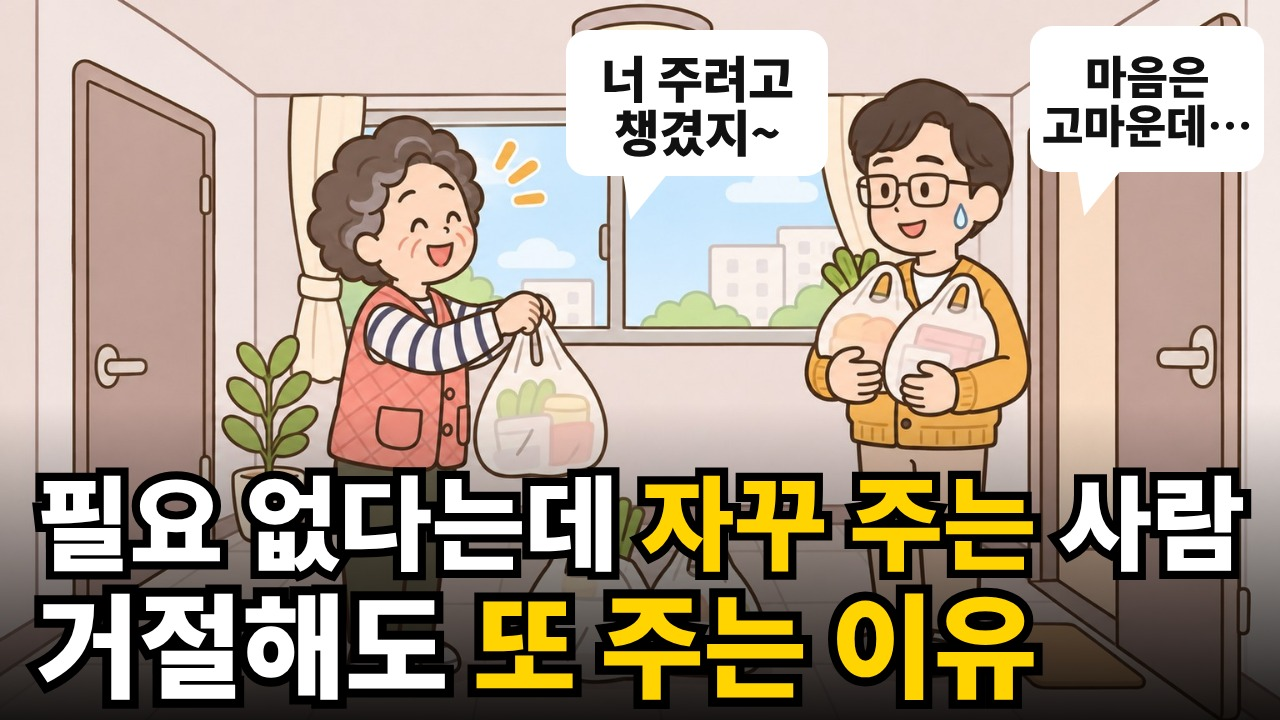
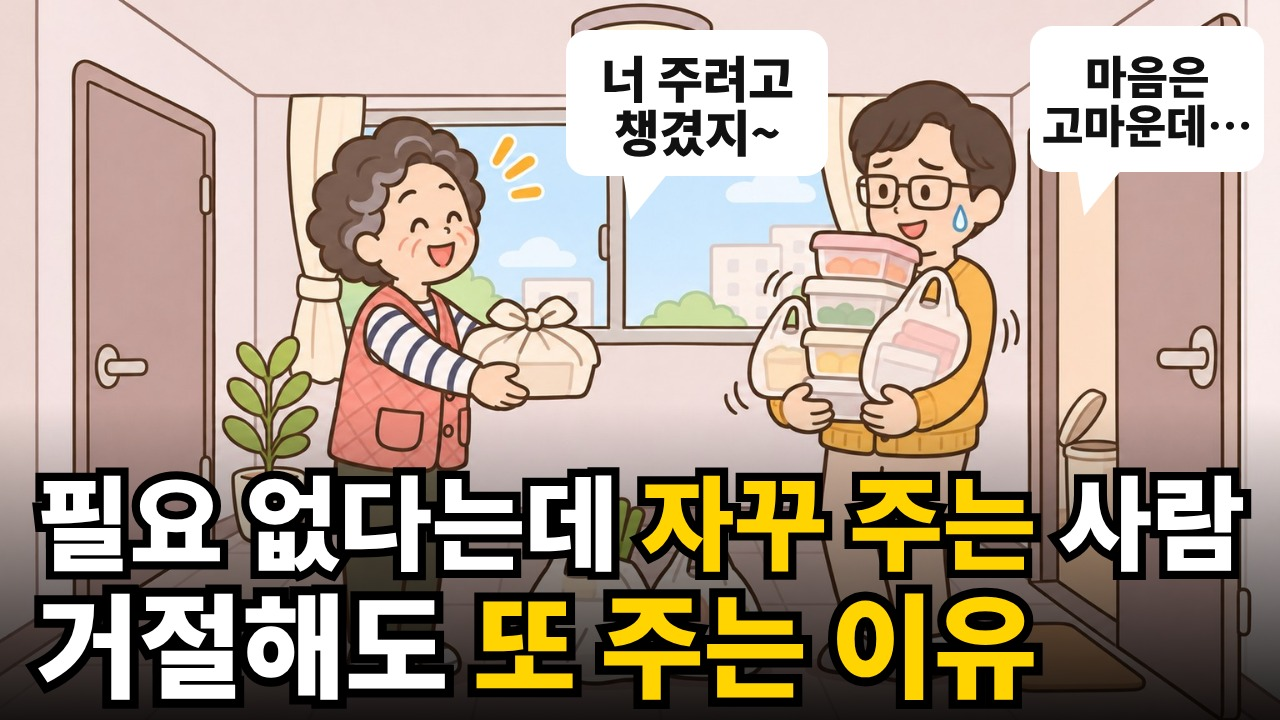
jakku 썸네일 3안 = 새 그림 TH-CHAR2 (가장 자극적인 장면 — 반찬통 탑 · 하나 더) · thumbs_build v1.11 img 칸
Claude-Session: https://claude.ai/code/session_01PYG2MqrRa1FwGcWhbgqN1W

diff --git a/psychology/source/thumbs_build.py b/psychology/source/thumbs_build.py
@@ -1,6 +1,7 @@
 #!/usr/bin/env python3
 # -*- coding: utf-8 -*-
-# VERSION: v1.10 — 2026-11-26 — jakku 둘째 줄 '심리학적 이유 3가지' → '거절해도 또 주는 이유' (영상 제작 공통 규칙 3번 — 제목과 이어지는 시청자 장면 · 답 숨김 · package.json thumb_main 과 맞춤 · '숨겨진' 은 페르소나 title 4·5회차가 탓하는 말로 읽음)
+# VERSION: v1.11 — 2026-11-26 — 편마다 그림 파일 칸 img (기본 TH-CHAR.jpg) · jakku = TH-CHAR2.jpg (ChatGPT 새 그림 — 가장 자극적인 장면, 영상 제작 공통 규칙 2번 · 말풍선 자리 다시 잼)
+# 이전 VERSION: v1.10 — 2026-11-26 — jakku 둘째 줄 '심리학적 이유 3가지' → '거절해도 또 주는 이유' (영상 제작 공통 규칙 3번 — 제목과 이어지는 시청자 장면 · 답 숨김 · package.json thumb_main 과 맞춤 · '숨겨진' 은 페르소나 title 4·5회차가 탓하는 말로 읽음)
 # 이전 VERSION: v1.9 — 2026-11-25 — jakku-juneun-2026-11-25 (같은 낱말 3안 — 본안 말풍선 둘 · 실험 1 말풍선 없음 · 실험 2 강조 색 바꿈 + 노란 말풍선) — 사용자 지시 "이미지, 음성 확인해서 영상 만들어"
 # 이전 v1.8 — 2026-11-24 — adhd-ab-2026-11 그림을 화면 끝까지 (아래 어두운 띠 뺌 — 두 칸을 따로 잘라 좌우로) · 문구는 그림 위 · 말풍선은 썸네일 좌표 — 사용자 지시 "썸네일 문구부분은 왜 이미지 영역이 아니야 이미지 꽉채워서 문구넣어야지"
 # (v1.7) — 2026-11-24 — adhd-ab-2026-11 사용자 제목·문구 3안 + A 말풍선 「진작 할걸~」 한 줄(작게) — 사용자 지시 "제목1 … 제목3 … 이렇게 가고 썸네일 각각 만들어 그리고 글씨 크기 좀 줄여서 한줄에 진작 할걸~ 로 고쳐"
@@ -15,6 +16,7 @@
 # CHANGELOG
 # | 버전 | 날짜 | 바뀐 것 | 함수 |
 # |---|---|---|---|
+# | v1.11 | 2026-11-26 | img 칸 · jakku TH-CHAR2 | EP · build_variants |
 # | v1.10 | 2026-11-26 | jakku 둘째 줄 문구 (제목 축약) | EP |
 # | v1.9 | 2026-11-25 | variants 셋째 칸 opts {bubbles: W·Y·none} · same_words(실험안도 본안 낱말 그대로 — package.json thumb_tests 없을 때) · 편마다 why(설명 줄의 사용자 지시) — jakku-juneun-2026-11-25 | EP · build_variants |
 # | v1.8 | 2026-11-24 | 편마다 images(crop·box)·bg 덮어쓰기 · bubbles_px(썸네일 좌표 그대로) — adhd-ab-2026-11 TH-CHAR 아래 26% 어두운 띠를 빼고 왼쪽 칸(A)·오른쪽 칸(B)을 따로 잘라 1280×720 을 채움 | EP · bubble · build_variants |
@@ -98,9 +100,11 @@ EP = {
         "_": "A 머리 오른쪽 사무실 벽(모니터 위) · B 머리 오른쪽 창문 — 썸네일 좌표, 사람·스탠드·낙서 구름을 가리지 않음",
     },
     "jakku-juneun-2026-11-25": {
-        # TH-CHAR = 화면 끝까지 그린 복도 (빈 띠 없음) — 자르지 않음. 문구는 그림 위 아래쪽 (L1·L2 기본 상자)
-        # 말풍선 = 썸네일 좌표: G(주는 사람) 머리 x 308~488 · y 117~288, 반짝 표시 x 496~546 → 그 오른쪽 창문(하늘)
-        #   R(받는 사람) 머리 x 850~1012 · y 79~250 → 그 오른쪽 열린 문틀 · 두 말풍선 모두 꼬리는 왼쪽(말하는 사람) 쪽으로
+        # v1.11 TH-CHAR2 (2026-11-26 ChatGPT — 영상 제작 공통 규칙 2번 '가장 자극적인 장면': 반찬통 탑을 턱까지 안은 R 에게 G 가 하나 더 · R 문 안쪽 쓰레기통)
+        #   화면 끝까지 그린 복도 — 자르지 않음. 문구는 그림 위 아래쪽 (L1·L2 기본 상자 — 다리·바닥 봉지 위, 얼굴·손은 위 60% 안)
+        # 말풍선 = 썸네일 좌표: G 머리 x 312~483 · y 117~275, 반짝 표시 x 492~542 → 그 오른쪽 창문·천장(사람 없음)
+        #   R 머리 x 850~1017 · y 79~242 · 통 탑 위 y 229~ → 머리 오른쪽 열린 문 위쪽 · 두 말풍선 모두 꼬리는 왼쪽(말하는 사람) 쪽으로
+        "img": "TH-CHAR2.jpg",
         "bubbles_px": True,
         "bubbles": [[[566, 30, 262, 146], "너 주려고\n챙겼지~", "right", 0.18], [[1030, 26, 234, 146], "마음은\n고마운데…", "right", 0.16]],
         "same_words": True,
@@ -142,7 +146,8 @@ def build_variants(ep: str, spec: dict, pkg: dict) -> list[Path]:
         raise SystemExit(f"[THUMB] {ep} 말풍선이 package.json thumb_subs 와 다름")
     out_dir = ROOT / "psychology" / "source" / ep / "thumbnails"
     out_dir.mkdir(exist_ok=True)
-    base = {"size": [1280, 720], "shade": [0.56, 0.9], "images": [{"src": "../images/TH-CHAR.jpg", "box": [0, 0, 1280, 720]}]}
+    img = spec.get("img", "TH-CHAR.jpg")                   # v1.11 편마다 그림 파일 (기본 TH-CHAR.jpg)
+    base = {"size": [1280, 720], "shade": [0.56, 0.9], "images": [{"src": f"../images/{img}", "box": [0, 0, 1280, 720]}]}
     if "images" in spec:                                    # v1.8 편마다 그림 자르기 (어두운 빈 띠 빼고 화면 끝까지)
         base.update(images=spec["images"], bg=spec.get("bg", "#000"))
     l1, l2 = spec.get("l1", L1), spec.get("l2", L2)
@@ -154,7 +159,7 @@ def build_variants(ep: str, spec: dict, pkg: dict) -> list[Path]:
         d = dict(base)
         why = spec.get("why", "2026-11-24 — 사용자 지시 \"둘다 말풍선 넣고 두번재 줄 괄호 제거해 그리고 나머지 2개는 실험형으로 너가 문구를 만드는 거야\"")
         d["_설명"] = (f"{name} ({why}) — "
-                     f"짝 제목 「{pkg['title']}」 · {spec.get('note', '')} · 그림 = images/TH-CHAR.jpg"
+                     f"짝 제목 「{pkg['title']}」 · {spec.get('note', '')} · 그림 = images/{img}"
                      f"{' (자르기 ' + ' + '.join(str(im['crop']) for im in spec['images']) + ')' if 'images' in spec else ''} · 말풍선 자리: {spec['_']}")
         d["out"] = f"thumbnail_{i}.jpg"
         bubs = [] if vo["bubbles"] == "none" else [bubble(r, t, vo["bubbles"], tl, tp, px) for r, t, tl, tp in spec["bubbles"]]

diff --git a/psychology/source/jakku-juneun-2026-11-25/persona_jakku-juneun-2026-11-25_script_rebuttal_18.md b/psychology/source/jakku-juneun-2026-11-25/persona_jakku-juneun-2026-11-25_script_rebuttal_18.md
@@ -1,0 +1,150 @@
+# 페르소나 검토 — 대본 반론 검토 (반론 페르소나) · jakku-juneun-2026-11-25 · 18회차 (persona_gate.py v1.2)
+
+너는 처음 이 글을 보는 검토자다. 이 대화 밖의 다른 회차 결과는 모른다. 아래 페르소나가 **되어** 솔직하게 답한다 — 칭찬하려 애쓰지 않고, 억지로 흠을 만들지도 않는다.
+검토자 이름: K18-반론 (이름마다 따로 답 — 한 사람이면 하나)
+답은 아래 JSON 꼴 그대로, 검토자마다 파일 하나로 `psychology/source/jakku-juneun-2026-11-25/answers_jakku-juneun-2026-11-25_script_rebuttal_18/<검토자 이름>.json` 에 저장하고, 마지막 답에도 그대로 붙인다.
+투자 권유가 아닌 연구·교육용 영상의 검토다.
+
+## 1. 너는 누구인가
+
+## 0. 한눈에 — 이 페르소나는 누구인가
+
+- **누구**: 영상의 결론보다 *빈틈*을 먼저 찾는 시청자. 정치·인물 비난·광고가 아니라 **내용**(조건·기간·숫자·비용·현실성·모순)에 댓글로 반박한다.
+- **어떻게 읽나**: 보기마다 '상황에 따라 다르지 않나?' · 숫자마다 '그 기간만 그런 것 아닌가?' · 해설마다 '앞에서 한 말과 다르지 않나?'.
+- **떠나는 까닭**: 애매한 정답·고른 기간·빠진 비용·과장 — 반박 댓글이 좋아요를 받으면 다른 시청자의 믿음도 깎인다.
+
+| 갈래 | 고른 댓글 | 몫 | 좋아요 | 좋아요 몫 | 대본 검토 질문 |
+|---|---|---|---|---|---|
+| K4 전문가가 아니다 · 진단하지 마라 | 6 | 16% | 8,537 | 38% | 진단처럼 들리는 말('당신은 ~장애')이 없는가? 도움을 권하는 문장이 겁주거나 떠넘기지 않는가? |
+| K1 사람마다 다르다 · 일반화 | 13 | 35% | 8,082 | 36% | '이런 사람은 다 ~다'처럼 들리는 문장이 없는가? 예외(그렇지 않은 사람)를 대본이 먼저 인정하는가? |
+| K3 부모·피해자 탓 | 5 | 14% | 1,797 | 8% | 부모나 상처받은 사람을 탓하는 말로 들리지 않는가? 그 시절 부모의 사정을 인정하는가? 반대로 가해를 감싸 주지도 않는가? |
+| K8 제목·썸네일 낚시 · 과장 | 2 | 5% | 1,118 | 5% | 제목·썸네일이 약속한 것(N가지·특징·이유)을 대본이 정확히 주는가? '소름'·'무조건'처럼 내용보다 센 말이 없는가? |
+| K6 나는 반대였다 (반대 경험) | 4 | 11% | 1,103 | 5% | 반대 경험을 가진 시청자가 '나는 아닌데'라며 떠나지 않게, 대본이 그런 경우를 짚는가? |
+| K7 원인·결과를 거꾸로 · 단정 | 2 | 5% | 1,081 | 5% | 'A 때문에 B'를 단정하지 않는가? 설문 연구(한 번 조사)를 원인으로 말하지 않는가? |
+| K5 뻔한 말 · 누구나 아는 이야기 | 3 | 8% | 615 | 3% | 누구나 아는 말만 하고 끝나는 챕터가 없는가? 새로 알게 되는 것(연구·구체 장면·할 말)이 챕터마다 있는가? |
+| K2 근거 없음 · 유사 과학 | 2 | 5% | 321 | 1% | 연구를 말할 때 누구를·몇 명·어떻게 조사했는지 말하는가? 연구가 말하지 않은 것(원인·효과)을 연구 결과처럼 말하지 않는가? |
+
+## 2. 할 일
+이 대본을 끝까지 읽고, 댓글로 **반박**을 단다면 무엇을 쓰겠나 — 아래 표의 K1~K8 질문으로. 숫자는 대본 안에서 앞뒤가 맞는지까지만 본다(밖의 자료를 찾지 않음).
+- 지적마다 `level`(상·중·하) · `k` · `line` · `text` · `fix` · 각 선택의 '옳은 선택'이 상황에 따라 갈리지 않고 분명한가 (`answer_clear`).
+
+## 3. 대본
+
+```
+  1  -도입
+  2  필요 없다는데도 '너 주려고 챙겼지' 하면서, 자꾸 선물을 쥐여 주는 사람 있으시죠?
+  3  마음은 고마운데, 집에 오면 이걸 어디에 둘지부터 고민됩니다.
+  4  그런데 거절까지 했는데, 왜 자꾸 줄까요?
+  5  여기에는 겉으로 잘 드러나지 않는 심리가 있을 수 있습니다.
+  6  오늘은 자꾸 주는 사람의 심리 세 가지와, 받는 쪽은 왜 불편한지를 하나씩 짚어 보겠습니다.
+  7  그리고 상대 마음은 지키면서, 편하게 거절하려면 어떻게 말해야 하는지도 짚어 보겠습니다.
+  8  -이유 1. 버리기 아까워서
+  9  첫 번째 이유는, 버리기 아까워서입니다.
+ 10  물론 자꾸 준다고 해서, 나쁜 마음으로 주는 건 아닙니다.
+ 11  정으로, 나누며 살라고 배운 습관으로, 또 이웃과 말 한마디 나누고 싶어서 주는 분도 많습니다.
+ 12  가족이라면, 잘 챙겨 먹는지 걱정돼서 주는 분도 많습니다.
+ 13  그런데 집에 있던 음식이나 물건을 자꾸 준다면, 그 밑에는 버리기 아까운 마음이 있을 수 있습니다.
+ 14  예를 들어, 명절을 앞두고 냉동실을 정리하는 사람이 있다고 해 볼까요.
+ 15  작년에 얼려 둔 떡과, 언제 넣었는지 모를 생선이 나옵니다.
+ 16  먹을 것 같지는 않은데, 버리자니 아깝습니다.
+ 17  이때 '옆집에 주면 되겠다' 하는 생각이 들면, 마음이 한결 가벼워집니다.
+ 18  버리면 낭비지만, 주면 나눔이 되니까요.
+ 19  2019년 네덜란드 연구팀은, 아직 쓸 수 있는 물건을 버릴 때 드는 마음을 세 번의 실험으로 살펴봤습니다.
+ 20  그런 물건을 버리는 상황에서, 사람들은 불편함을 느꼈습니다.
+ 21  연구팀은, '아깝다'는 마음과 '버린다'는 행동이 부딪혀서 불편해진다고 봤습니다.
+ 22  연구가 직접 본 것은 아니지만, 남에게 주면 버리지 않아도 되니 이 불편함을 피하는 길이 될 수 있습니다.
+ 23  실제로 음식을 버리는 게 죄스러워서, 차라리 남에게 주는 분도 있습니다.
+ 24  그런데 받은 사람도 먹지 않는다면, 버리는 일이 받는 집으로 옮겨 갈 뿐일 수 있습니다.
+ 25  그러면 받은 사람도 같은 불편함을 겪게 됩니다.
+ 26  그리고 버리지 않고 둘 곳을 찾다 보니, 한 번 사양해도 다른 날 또 권하게 될 수 있습니다.
+ 27  버리기 아까운 마음, 이것이 자꾸 주는 첫 번째 이유일 수 있습니다.
+ 28  그런데 받는 사람이 이렇게 불편해한다는 걸, 주는 사람은 왜 잘 모를까요?
+ 29  -이유 2. 받은 뒤의 일은 안 보여서
+ 30  두 번째 이유는, 받은 뒤의 일이 주는 사람에게는 잘 안 보이기 쉬워서입니다.
+ 31  2016년 미국 연구자들은 선물에 관한 여러 연구를 모아 정리했습니다.
+ 32  주는 사람은 선물을 건네는 그 순간, 상대가 반가워할 얼굴을 떠올립니다.
+ 33  반면 받는 사람은 그 물건을 집에 가져간 뒤, 얼마나 쓸모 있을지를 더 따집니다.
+ 34  그래서 주는 사람에게는 '고마워요' 하는 얼굴이 남습니다.
+ 35  하지만 필요 없는 물건이라면, 받는 사람에게는 냉장고 자리와 버리는 일이 남습니다.
+ 36  2011년 미국 연구팀의 실험에서는, 받는 사람은 자기가 부탁한 선물을 더 고마워했습니다.
+ 37  그런데 주는 쪽은 거꾸로, 말 안 해도 알아서 챙겨 줘야 더 감동할 거라고 생각했습니다.
+ 38  이건 선물 실험이지만, 일상에서도 비슷한 일이 생길 수 있습니다.
+ 39  말 안 해도 챙겨 주는 게 정이라고 생각하면, 필요 없다는 사람에게도 자꾸 챙겨 주게 되기 쉽습니다.
+ 40  게다가 우리말 '괜찮아요'는 예의로 사양할 때도 쓰다 보니, 주는 쪽에는 진짜 거절로 들리지 않을 수 있습니다.
+ 41  정리하면, 주는 사람은 상대가 웃으며 받는 모습을 먼저 보게 되고, 그 물건이 집에 가서 어떻게 되는지는 모르기 쉽습니다.
+ 42  그렇다면 상대가 '괜찮아요' 하고 사양해도, 왜 또 주고 싶어질까요?
+ 43  -이유 3. 주고 나면 기분이 좋아서
+ 44  세 번째 이유는, 주고 나면 기분이 좋아서일 수 있습니다.
+ 45  2020년 캐나다와 미국 실험에서는, 남을 위해 돈을 쓰게 한 사람이 대체로 조금 더 행복하다고 답했습니다.
+ 46  돈을 쓴 실험이라 똑같지는 않지만, 반찬을 건네고 돌아서는 길이 뿌듯한 것도 비슷한 마음일 수 있습니다.
+ 47  특별한 이유 없이, 그냥 주고 싶어서 주는 분도 많습니다.
+ 48  이런 마음이 나쁜 것은 아닙니다.
+ 49  다만 기쁨이 주는 쪽에서 생기다 보니, 상대가 사양해도 또 주고 싶어질 수 있습니다.
+ 50  주는 사람은 뿌듯해도, 필요 없는 걸 갑자기 받는 사람은 불편할 수 있습니다.
+ 51  주고 나면 내 기분이 좋아진다는 것, 이것이 세 번째 이유일 수 있습니다.
+ 52  그런데 주는 쪽은 이렇게 기분이 좋은데, 받는 쪽은 왜 이렇게까지 불편할까요?
+ 53  -받는 쪽이 불편한 이유
+ 54  받는 쪽이 불편한 이유는, 크게 세 가지로 나눠 볼 수 있습니다.
+ 55  첫째, 받았으니 뭔가 돌려줘야 할 것 같은 부담입니다.
+ 56  필요 없는 걸 받았는데, 답례하느라 내 돈이 나가기도 합니다.
+ 57  둘째, 먹지도 쓰지도 않을 것을 버리는 죄책감입니다.
+ 58  셋째, 거절하면 상대가 서운해할까 봐 보게 되는 눈치입니다.
+ 59  식단을 조절하거나, 물건을 줄이며 사는 분에게는 이 부담이 더 클 수 있습니다.
+ 60  그리고 소비기한이 지난 음식은, 마음의 문제가 아니라 안전의 문제입니다.
+ 61  소비기한은 보관 방법을 지켰을 때, 먹어도 되는 기한입니다.
+ 62  그래서 소비기한이 지난 음식은, 아깝더라도 먹지 않는 것이 안전합니다.
+ 63  그렇다면 상대 마음은 다치지 않게, 어떻게 거절하면 좋을까요?
+ 64  -서운하지 않게 거절하는 말
+ 65  서운하지 않게 거절하는 말, 첫째는 물건 말고 내 사정을 이유로 대는 겁니다.
+ 66  '이게 별로예요'가 아니라, 실제 내 사정을 말하는 겁니다.
+ 67  그리고 사양으로만 들릴 수 있는 '괜찮아요'보다는, 분명하게 말하는 게 좋습니다.
+ 68  '마음은 정말 고마워요. 그런데 이건 사양할게요'처럼 말한 뒤 사정을 붙이면 됩니다.
+ 69  예를 들어 '요즘 식단을 조절하고 있어서요', '집에 둘 자리가 없어서요'처럼요.
+ 70  그러면 상대의 마음을 탓하지 않고도 거절할 수 있습니다.
+ 71  둘째, 계속 주고받는 사이라 받고 싶은 것이 하나라도 있다면, 그것 하나만 콕 집어 말합니다.
+ 72  앞에서 본 2011년 연구에는 이런 결과도 있었습니다.
+ 73  받는 사람이 원하는 걸 하나만 콕 집어 말해 줬을 때, 주는 사람은 상대가 얼마나 반가워할지 더 잘 알아맞혔습니다.
+ 74  여러 개를 늘어놓았을 때보다요.
+ 75  '주시려면, 저는 귤 두세 개가 제일 반가워요'처럼, 반가운 것을 하나만 정해 주는 겁니다.
+ 76  여기에 하나 더 하자면, '두세 개'처럼 양까지 말해 두면 나머지를 사양하기도 편합니다.
+ 77  아무것도 필요 없다면, 첫째처럼 내 사정만 말해도 충분합니다.
+ 78  말 한마디 나누고 싶어서 주시는 분이라면, 물건은 사양해도 안부와 이야기는 반갑게 받아 주세요.
+ 79  셋째, 소비기한이 지난 음식은 안전 문제라, 짧고 분명하게 말합니다.
+ 80  '소비기한이 지나서 저는 못 먹어요. 마음만 받을게요.'
+ 81  날짜를 모르는 냉동 음식이라면, '언제 얼린 건지 몰라서 저는 못 먹겠어요'라고 하면 됩니다.
+ 82  넷째, 그래도 계속 주시면, 같은 말을 같은 말투로 짧게 되풀이합니다.
+ 83  이유를 매번 새로 대면, 그 이유만 피해서 다시 권하는 경우가 있기 때문입니다.
+ 84  이미 받아 왔다면, 억지로 먹거나 쌓아 둘 필요는 없습니다.
+ 85  아직 쓸 만한 물건이라면, 원하는 사람이 직접 골라 가는 나눔 장터에 내놓아도 됩니다.
+ 86  먹을 수 있는 음식이라면 먹겠다는 사람에게 물어보고 나누고, 그래도 남으면 버려도 괜찮습니다.
+ 87  준 사람의 마음은 고맙다는 인사로 받았고, 물건까지 다 떠안을 의무는 없으니까요.
+ 88  그런데 혹시, 여기까지 들으면서 '어, 이거 내 얘긴가?' 싶었던 분도 계시지 않나요?
+ 89  -내가 주는 쪽이라면
+ 90  내가 주는 쪽이라면, 그 마음은 소중합니다.
+ 91  다만 건네기 전에, 세 가지만 확인해 보세요.
+ 92  첫째, 상대에게 먼저 물어봤나요?
+ 93  '이거 쓰실래요?' 한마디면 됩니다.
+ 94  상대가 '괜찮아요' 하면, 예의로 하는 말이라 여기지 말고 한 번에 거절로 들어 주세요.
+ 95  '그럼 필요하실 때 말씀해 주세요' 하고 거두면, 서운할 일도 줄어듭니다.
+ 96  둘째, 상대가 요즘 쓰거나 먹는 물건인가요?
+ 97  셋째, 내가 받아도 반가울 만큼 상태가 좋은가요?
+ 98  남에게 줄 때는 제일 좋은 걸 주라는, 어른들 말씀도 있지요.
+ 99  셋 다 그렇다면, 적어도 상대가 곤란해할 일은 줄어듭니다.
+100  그리고 상대가 거절한다면, 그건 내 마음을 거절한 게 아니라 물건 하나를 사양한 것뿐입니다.
+101  물어봤는데 받을 사람이 없다면, 쓸 만한 물건은 나눔 장터나 기부하는 곳을 찾아보는 것도 방법입니다.
+102  다만 소비기한이 지난 음식은, 나누지 말고 버리는 것이 맞습니다.
+103  -마무리
+104  주는 쪽이라면, 건네기 전에 한 번만 물어봐 주세요.
+105  받는 쪽이라면, 내 사정을 이유로 짧게 거절해도 괜찮습니다.
+106  시청해주셔서 감사합니다.
+```
+
+## 답
+
+```json
+{"reviewer": "<검토자 이름 그대로>", "persona": "반론",
+ "findings": [{"level": "상 | 중 | 하", "k": "K1~K8", "line": <줄 번호>, "text": "<댓글로 달 반박 한 줄>", "fix": "<고칠 방향>"}],
+ "answer_clear": true,
+ "summary": "<전체 한 줄>"}
+```
+- 상 = 결론·숫자를 틀리게 만들거나 좋아요 많이 받을 반박 · 중 = 믿음을 깎는 빈틈 · 하 = 말 다듬기.

diff --git a/psychology/source/jakku-juneun-2026-11-25/persona_jakku-juneun-2026-11-25_script_exit_18.md b/psychology/source/jakku-juneun-2026-11-25/persona_jakku-juneun-2026-11-25_script_exit_18.md
@@ -1,0 +1,142 @@
+# 페르소나 검토 — 대본 이탈 검토 (대상 페르소나) · jakku-juneun-2026-11-25 · 18회차 (persona_gate.py v1.2)
+
+너는 처음 이 글을 보는 검토자다. 이 대화 밖의 다른 회차 결과는 모른다. 아래 페르소나가 **되어** 솔직하게 답한다 — 칭찬하려 애쓰지 않고, 억지로 흠을 만들지도 않는다.
+검토자 이름: E18-P1 (이름마다 따로 답 — 한 사람이면 하나)
+답은 아래 JSON 꼴 그대로, 검토자마다 파일 하나로 `psychology/source/jakku-juneun-2026-11-25/answers_jakku-juneun-2026-11-25_script_exit_18/<검토자 이름>.json` 에 저장하고, 마지막 답에도 그대로 붙인다.
+투자 권유가 아닌 연구·교육용 영상의 검토다.
+
+## 1. 너는 누구인가
+
+**P1 살아 보니 알게 된 5060** (댓글 몫 0.2189)
+- 나이: 50대 55% · 60대 27% · 70대 17%
+- 지식: 기초 — 기초 76% · 초급 17% · 중급 5%
+- 이미 아는 말: 스트레스, 감정, 우울, 불안, 상처, 인간관계
+- 잘 모르는 말: -
+- 원하는 것: 감정, 우울, 말투, 상대, 며느리, 자식, 하며, 정답, 호의
+- 싫어하는 것·떠나는 까닭: -
+- 실제로 묻는 말: 싫어하는 사람에게 막무가내로 사과 줘놓고 왜 나에게 고마워하지 않지? 하면서 상대를 고마워하지 않는 사람 만들지 마세요 주고싶은 자기감정에 충실했으면 된거지 왜 요즘 세대는 어쩌구저쩌구 자기생각이 정답인냥 생각하나요? 주고싶은건 …, 시부모가 아픈데.왜 며느리가 병간호 해야되나요? 그리고 왜 며느리는 병간호 안하면 죄의식을 가져야할까요?, 지금 이영상의 내용은 80세 이전 70중반정도 내가 활발하게 밖에 돌아 다닐수 있을때까지 얘기 입니다. 자식 며느리 손주들이 언제까지 할아버지~ 할머니~ 하고 부르며 찿아올것 같나요? 부부가 누가 먼져 죽을진 아무도 모릅니다. 그런데…
+
+## 2. 할 일
+영상을 처음부터 보는 시청자로, 줄마다 **여기서 끄고 싶어지나**만 본다 (내레이션은 AI 음성 · 화면엔 숫자·그래프).
+- 끄고 싶어진 줄 번호와 까닭 (`exits`) — 없으면 [] · 풀이 없이 나와 모르겠는 말 (`hard_words`) · 끝까지 볼 것인가 (`keep_watching`).
+
+## 3. 대본 (줄 번호 = 말하는 차례 · '-' 로 시작하는 줄은 장 이름)
+
+```
+  1  -도입
+  2  필요 없다는데도 '너 주려고 챙겼지' 하면서, 자꾸 선물을 쥐여 주는 사람 있으시죠?
+  3  마음은 고마운데, 집에 오면 이걸 어디에 둘지부터 고민됩니다.
+  4  그런데 거절까지 했는데, 왜 자꾸 줄까요?
+  5  여기에는 겉으로 잘 드러나지 않는 심리가 있을 수 있습니다.
+  6  오늘은 자꾸 주는 사람의 심리 세 가지와, 받는 쪽은 왜 불편한지를 하나씩 짚어 보겠습니다.
+  7  그리고 상대 마음은 지키면서, 편하게 거절하려면 어떻게 말해야 하는지도 짚어 보겠습니다.
+  8  -이유 1. 버리기 아까워서
+  9  첫 번째 이유는, 버리기 아까워서입니다.
+ 10  물론 자꾸 준다고 해서, 나쁜 마음으로 주는 건 아닙니다.
+ 11  정으로, 나누며 살라고 배운 습관으로, 또 이웃과 말 한마디 나누고 싶어서 주는 분도 많습니다.
+ 12  가족이라면, 잘 챙겨 먹는지 걱정돼서 주는 분도 많습니다.
+ 13  그런데 집에 있던 음식이나 물건을 자꾸 준다면, 그 밑에는 버리기 아까운 마음이 있을 수 있습니다.
+ 14  예를 들어, 명절을 앞두고 냉동실을 정리하는 사람이 있다고 해 볼까요.
+ 15  작년에 얼려 둔 떡과, 언제 넣었는지 모를 생선이 나옵니다.
+ 16  먹을 것 같지는 않은데, 버리자니 아깝습니다.
+ 17  이때 '옆집에 주면 되겠다' 하는 생각이 들면, 마음이 한결 가벼워집니다.
+ 18  버리면 낭비지만, 주면 나눔이 되니까요.
+ 19  2019년 네덜란드 연구팀은, 아직 쓸 수 있는 물건을 버릴 때 드는 마음을 세 번의 실험으로 살펴봤습니다.
+ 20  그런 물건을 버리는 상황에서, 사람들은 불편함을 느꼈습니다.
+ 21  연구팀은, '아깝다'는 마음과 '버린다'는 행동이 부딪혀서 불편해진다고 봤습니다.
+ 22  연구가 직접 본 것은 아니지만, 남에게 주면 버리지 않아도 되니 이 불편함을 피하는 길이 될 수 있습니다.
+ 23  실제로 음식을 버리는 게 죄스러워서, 차라리 남에게 주는 분도 있습니다.
+ 24  그런데 받은 사람도 먹지 않는다면, 버리는 일이 받는 집으로 옮겨 갈 뿐일 수 있습니다.
+ 25  그러면 받은 사람도 같은 불편함을 겪게 됩니다.
+ 26  그리고 버리지 않고 둘 곳을 찾다 보니, 한 번 사양해도 다른 날 또 권하게 될 수 있습니다.
+ 27  버리기 아까운 마음, 이것이 자꾸 주는 첫 번째 이유일 수 있습니다.
+ 28  그런데 받는 사람이 이렇게 불편해한다는 걸, 주는 사람은 왜 잘 모를까요?
+ 29  -이유 2. 받은 뒤의 일은 안 보여서
+ 30  두 번째 이유는, 받은 뒤의 일이 주는 사람에게는 잘 안 보이기 쉬워서입니다.
+ 31  2016년 미국 연구자들은 선물에 관한 여러 연구를 모아 정리했습니다.
+ 32  주는 사람은 선물을 건네는 그 순간, 상대가 반가워할 얼굴을 떠올립니다.
+ 33  반면 받는 사람은 그 물건을 집에 가져간 뒤, 얼마나 쓸모 있을지를 더 따집니다.
+ 34  그래서 주는 사람에게는 '고마워요' 하는 얼굴이 남습니다.
+ 35  하지만 필요 없는 물건이라면, 받는 사람에게는 냉장고 자리와 버리는 일이 남습니다.
+ 36  2011년 미국 연구팀의 실험에서는, 받는 사람은 자기가 부탁한 선물을 더 고마워했습니다.
+ 37  그런데 주는 쪽은 거꾸로, 말 안 해도 알아서 챙겨 줘야 더 감동할 거라고 생각했습니다.
+ 38  이건 선물 실험이지만, 일상에서도 비슷한 일이 생길 수 있습니다.
+ 39  말 안 해도 챙겨 주는 게 정이라고 생각하면, 필요 없다는 사람에게도 자꾸 챙겨 주게 되기 쉽습니다.
+ 40  게다가 우리말 '괜찮아요'는 예의로 사양할 때도 쓰다 보니, 주는 쪽에는 진짜 거절로 들리지 않을 수 있습니다.
+ 41  정리하면, 주는 사람은 상대가 웃으며 받는 모습을 먼저 보게 되고, 그 물건이 집에 가서 어떻게 되는지는 모르기 쉽습니다.
+ 42  그렇다면 상대가 '괜찮아요' 하고 사양해도, 왜 또 주고 싶어질까요?
+ 43  -이유 3. 주고 나면 기분이 좋아서
+ 44  세 번째 이유는, 주고 나면 기분이 좋아서일 수 있습니다.
+ 45  2020년 캐나다와 미국 실험에서는, 남을 위해 돈을 쓰게 한 사람이 대체로 조금 더 행복하다고 답했습니다.
+ 46  돈을 쓴 실험이라 똑같지는 않지만, 반찬을 건네고 돌아서는 길이 뿌듯한 것도 비슷한 마음일 수 있습니다.
+ 47  특별한 이유 없이, 그냥 주고 싶어서 주는 분도 많습니다.
+ 48  이런 마음이 나쁜 것은 아닙니다.
+ 49  다만 기쁨이 주는 쪽에서 생기다 보니, 상대가 사양해도 또 주고 싶어질 수 있습니다.
+ 50  주는 사람은 뿌듯해도, 필요 없는 걸 갑자기 받는 사람은 불편할 수 있습니다.
+ 51  주고 나면 내 기분이 좋아진다는 것, 이것이 세 번째 이유일 수 있습니다.
+ 52  그런데 주는 쪽은 이렇게 기분이 좋은데, 받는 쪽은 왜 이렇게까지 불편할까요?
+ 53  -받는 쪽이 불편한 이유
+ 54  받는 쪽이 불편한 이유는, 크게 세 가지로 나눠 볼 수 있습니다.
+ 55  첫째, 받았으니 뭔가 돌려줘야 할 것 같은 부담입니다.
+ 56  필요 없는 걸 받았는데, 답례하느라 내 돈이 나가기도 합니다.
+ 57  둘째, 먹지도 쓰지도 않을 것을 버리는 죄책감입니다.
+ 58  셋째, 거절하면 상대가 서운해할까 봐 보게 되는 눈치입니다.
+ 59  식단을 조절하거나, 물건을 줄이며 사는 분에게는 이 부담이 더 클 수 있습니다.
+ 60  그리고 소비기한이 지난 음식은, 마음의 문제가 아니라 안전의 문제입니다.
+ 61  소비기한은 보관 방법을 지켰을 때, 먹어도 되는 기한입니다.
+ 62  그래서 소비기한이 지난 음식은, 아깝더라도 먹지 않는 것이 안전합니다.
+ 63  그렇다면 상대 마음은 다치지 않게, 어떻게 거절하면 좋을까요?
+ 64  -서운하지 않게 거절하는 말
+ 65  서운하지 않게 거절하는 말, 첫째는 물건 말고 내 사정을 이유로 대는 겁니다.
+ 66  '이게 별로예요'가 아니라, 실제 내 사정을 말하는 겁니다.
+ 67  그리고 사양으로만 들릴 수 있는 '괜찮아요'보다는, 분명하게 말하는 게 좋습니다.
+ 68  '마음은 정말 고마워요. 그런데 이건 사양할게요'처럼 말한 뒤 사정을 붙이면 됩니다.
+ 69  예를 들어 '요즘 식단을 조절하고 있어서요', '집에 둘 자리가 없어서요'처럼요.
+ 70  그러면 상대의 마음을 탓하지 않고도 거절할 수 있습니다.
+ 71  둘째, 계속 주고받는 사이라 받고 싶은 것이 하나라도 있다면, 그것 하나만 콕 집어 말합니다.
+ 72  앞에서 본 2011년 연구에는 이런 결과도 있었습니다.
+ 73  받는 사람이 원하는 걸 하나만 콕 집어 말해 줬을 때, 주는 사람은 상대가 얼마나 반가워할지 더 잘 알아맞혔습니다.
+ 74  여러 개를 늘어놓았을 때보다요.
+ 75  '주시려면, 저는 귤 두세 개가 제일 반가워요'처럼, 반가운 것을 하나만 정해 주는 겁니다.
+ 76  여기에 하나 더 하자면, '두세 개'처럼 양까지 말해 두면 나머지를 사양하기도 편합니다.
+ 77  아무것도 필요 없다면, 첫째처럼 내 사정만 말해도 충분합니다.
+ 78  말 한마디 나누고 싶어서 주시는 분이라면, 물건은 사양해도 안부와 이야기는 반갑게 받아 주세요.
+ 79  셋째, 소비기한이 지난 음식은 안전 문제라, 짧고 분명하게 말합니다.
+ 80  '소비기한이 지나서 저는 못 먹어요. 마음만 받을게요.'
+ 81  날짜를 모르는 냉동 음식이라면, '언제 얼린 건지 몰라서 저는 못 먹겠어요'라고 하면 됩니다.
+ 82  넷째, 그래도 계속 주시면, 같은 말을 같은 말투로 짧게 되풀이합니다.
+ 83  이유를 매번 새로 대면, 그 이유만 피해서 다시 권하는 경우가 있기 때문입니다.
+ 84  이미 받아 왔다면, 억지로 먹거나 쌓아 둘 필요는 없습니다.
+ 85  아직 쓸 만한 물건이라면, 원하는 사람이 직접 골라 가는 나눔 장터에 내놓아도 됩니다.
+ 86  먹을 수 있는 음식이라면 먹겠다는 사람에게 물어보고 나누고, 그래도 남으면 버려도 괜찮습니다.
+ 87  준 사람의 마음은 고맙다는 인사로 받았고, 물건까지 다 떠안을 의무는 없으니까요.
+ 88  그런데 혹시, 여기까지 들으면서 '어, 이거 내 얘긴가?' 싶었던 분도 계시지 않나요?
+ 89  -내가 주는 쪽이라면
+ 90  내가 주는 쪽이라면, 그 마음은 소중합니다.
+ 91  다만 건네기 전에, 세 가지만 확인해 보세요.
+ 92  첫째, 상대에게 먼저 물어봤나요?
+ 93  '이거 쓰실래요?' 한마디면 됩니다.
+ 94  상대가 '괜찮아요' 하면, 예의로 하는 말이라 여기지 말고 한 번에 거절로 들어 주세요.
+ 95  '그럼 필요하실 때 말씀해 주세요' 하고 거두면, 서운할 일도 줄어듭니다.
+ 96  둘째, 상대가 요즘 쓰거나 먹는 물건인가요?
+ 97  셋째, 내가 받아도 반가울 만큼 상태가 좋은가요?
+ 98  남에게 줄 때는 제일 좋은 걸 주라는, 어른들 말씀도 있지요.
+ 99  셋 다 그렇다면, 적어도 상대가 곤란해할 일은 줄어듭니다.
+100  그리고 상대가 거절한다면, 그건 내 마음을 거절한 게 아니라 물건 하나를 사양한 것뿐입니다.
+101  물어봤는데 받을 사람이 없다면, 쓸 만한 물건은 나눔 장터나 기부하는 곳을 찾아보는 것도 방법입니다.
+102  다만 소비기한이 지난 음식은, 나누지 말고 버리는 것이 맞습니다.
+103  -마무리
+104  주는 쪽이라면, 건네기 전에 한 번만 물어봐 주세요.
+105  받는 쪽이라면, 내 사정을 이유로 짧게 거절해도 괜찮습니다.
+106  시청해주셔서 감사합니다.
+```
+
+## 답
+
+```json
+{"reviewer": "<검토자 이름 그대로>", "persona": "<P?>",
+ "exits": [{"line": <끄고 싶어진 줄 번호>, "why": "<지루함·어려운 말·광고·겁주기·뻔함·관련 없음 등 — 한 줄>"}],
+ "hard_words": ["<풀이 없이 나와 모르겠는 말>"],
+ "keep_watching": true,
+ "best": "<가장 붙잡힌 줄 번호와 까닭 한 줄>"}
+```
